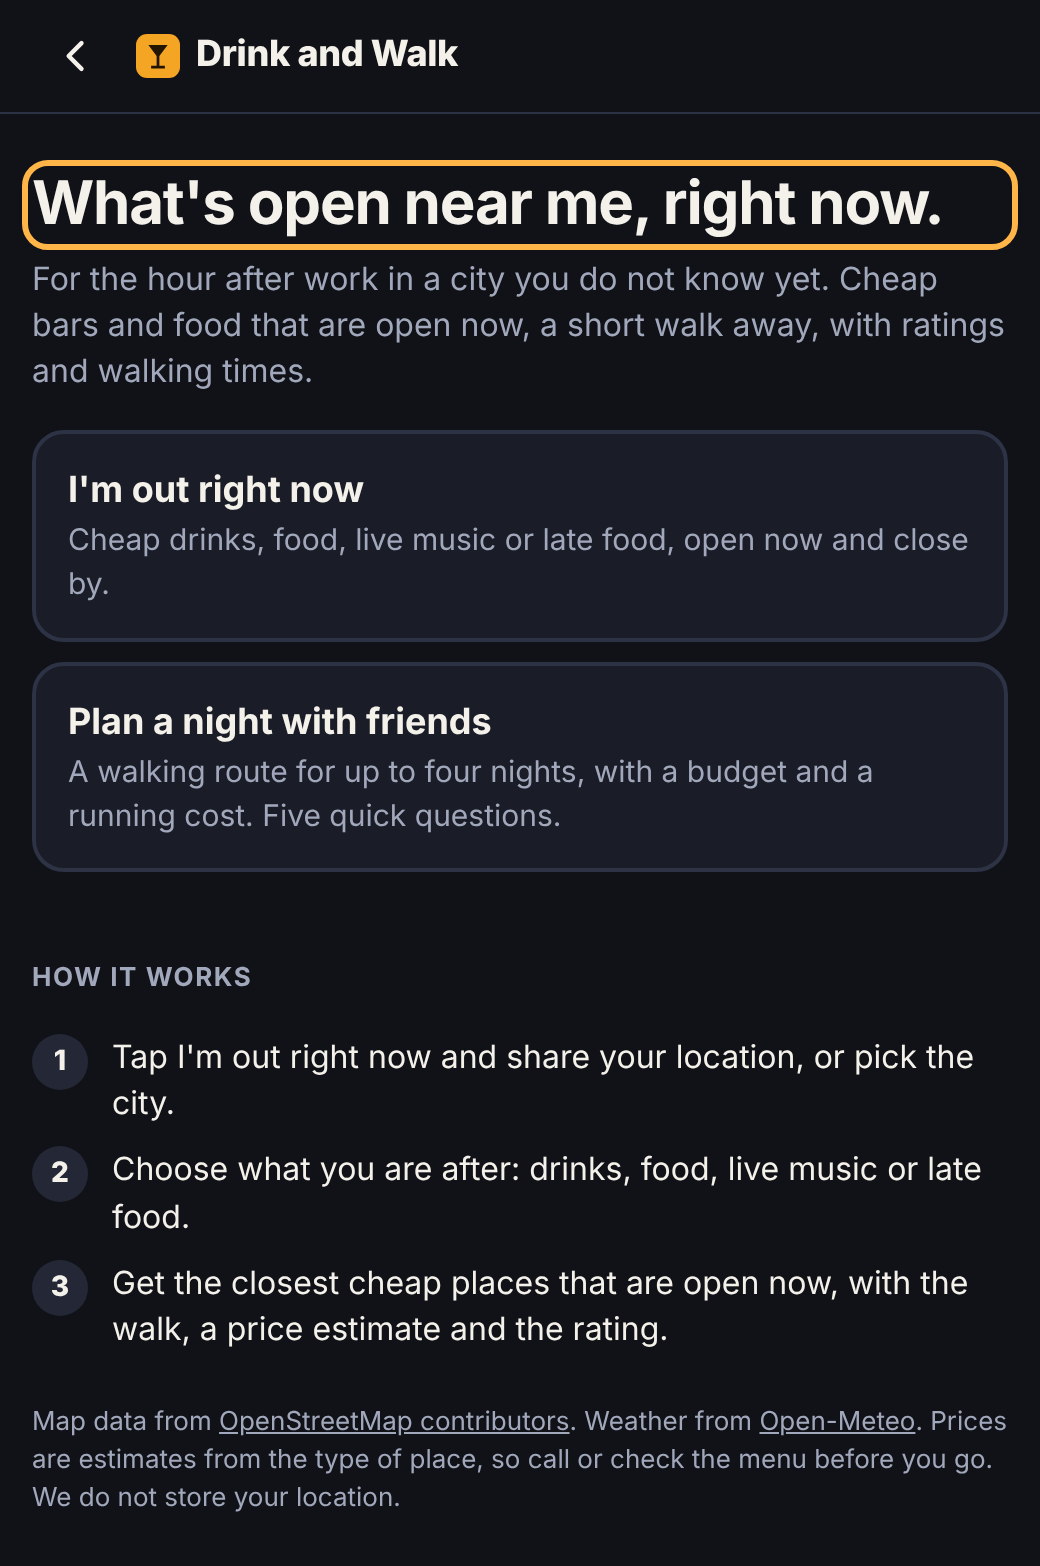
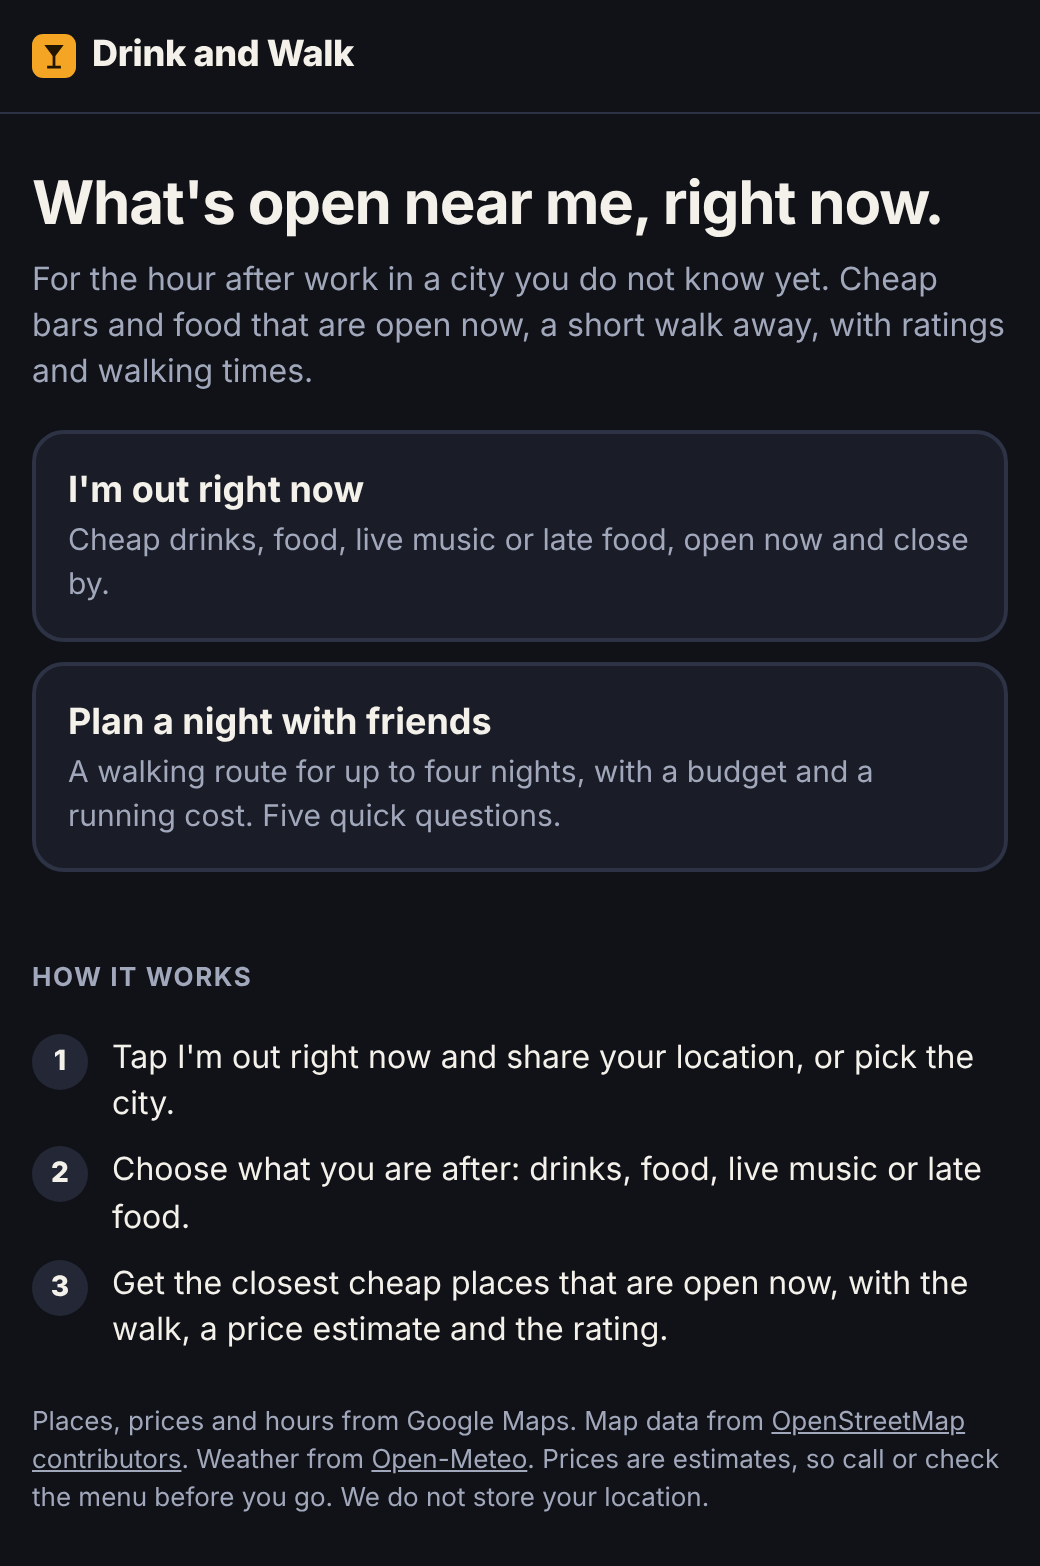
New home screen screenshot; credit MET Norway for weather
Claude-Session: https://claude.ai/code/session_01YU21o4UBMgVjuYoF3CYYLY

diff --git a/static/app.js b/static/app.js
@@ -138,6 +138,8 @@ function credits(google) {
     h('a', { href: 'https://www.openstreetmap.org/copyright', target: '_blank', rel: 'noopener' }, 'OpenStreetMap contributors'),
     '. Weather from ',
     h('a', { href: 'https://open-meteo.com/', target: '_blank', rel: 'noopener' }, 'Open-Meteo'),
+    ' and ',
+    h('a', { href: 'https://www.met.no/en', target: '_blank', rel: 'noopener' }, 'MET Norway'),
     '. Prices are estimates, so call or check the menu before you go. We do not store your location.');
 }
 

diff --git a/README.md b/README.md
@@ -64,6 +64,7 @@ out of the same idea, for nights when friends come along and someone has to plan
 | Bars, pubs, food, hours (fallback) | OpenStreetMap via Overpass API | Free, no key |
 | Hotel or address search | Nominatim (OpenStreetMap) | Free, 1 request a second |
 | Weather | Open-Meteo forecast (about 16 days) | Free, no key |
+| Weather (backup) | MET Norway forecast (about 9 days) | Free, no key |
 | Concerts and festivals | Ticketmaster Discovery | Free key, optional |
 | Deals | Visitors, stored in `data/deals.json` | Free |
 
